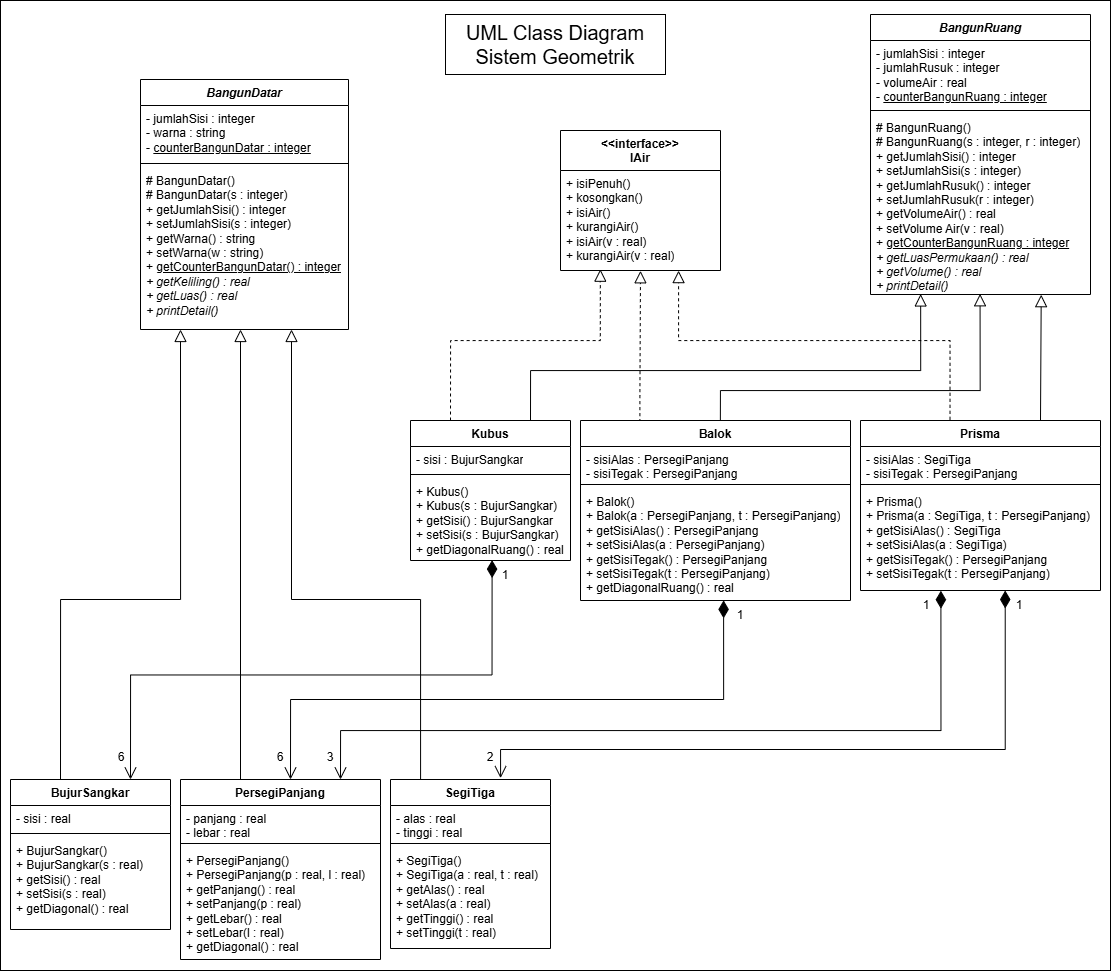
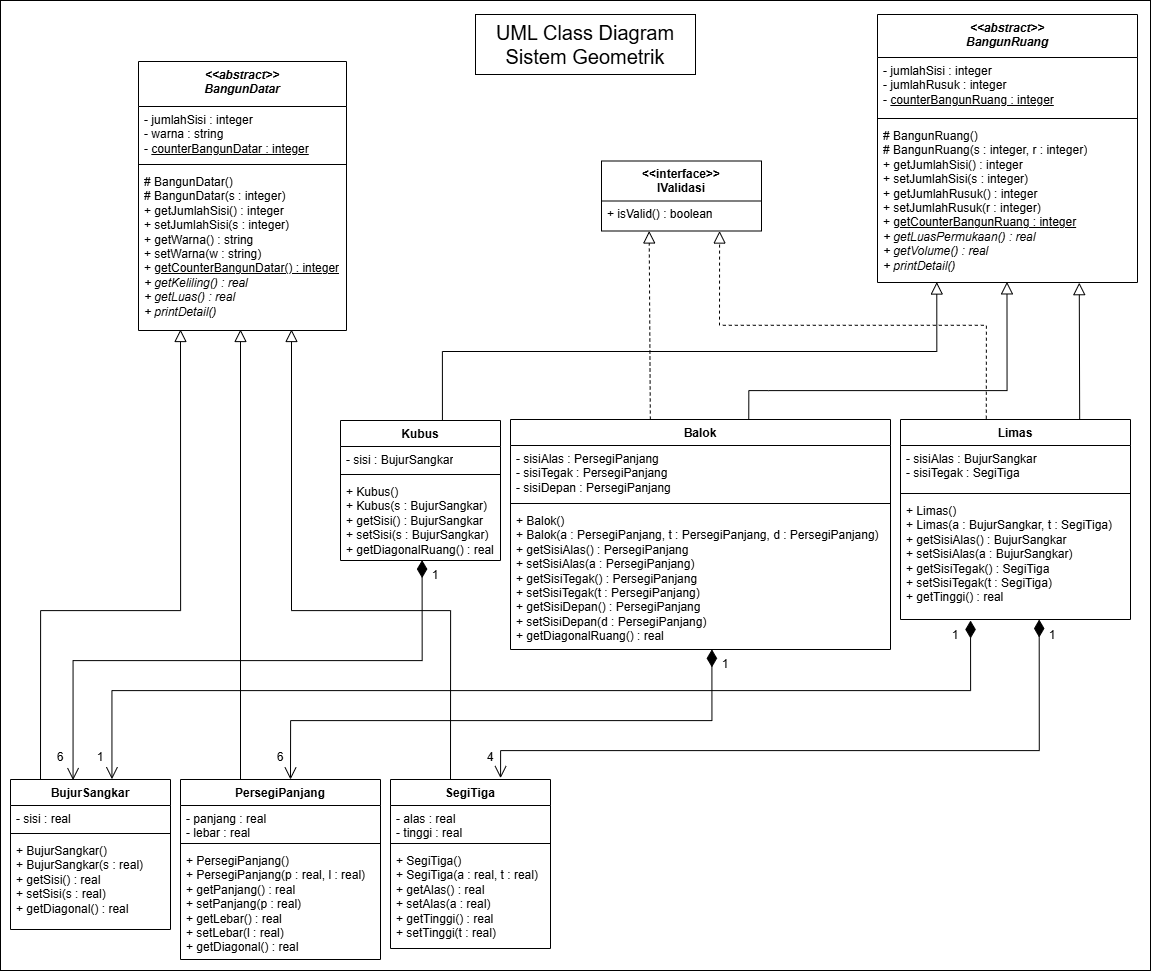
change img

diff --git a/src/Limas.java b/src/Limas.java
@@ -70,10 +70,10 @@ public class Limas extends BangunRuang implements IValidasi{
     @Override
     public void printDetail(){
         System.out.println("=== Print Detail Limas ===" );
-        System.out.println("Alas Limas        = " + sisiAlas.getSisi());
-        System.out.println("Tinggi Limas      = " + getTinggi());
-        System.out.println("Luas Permukaan    = " + getLuasPermukaan() );
-        System.out.println("Volume            = " + getVolume());
+        System.out.println("Alas Limas     = " + sisiAlas.getSisi());
+        System.out.println("Tinggi Limas   = " + getTinggi());
+        System.out.println("Luas Permukaan = " + getLuasPermukaan() );
+        System.out.println("Volume         = " + getVolume());
         System.out.println();
     }
 }

diff --git a/README.md b/README.md
@@ -2,32 +2,46 @@
 
 Anggota Kelompok :
 
-- Ruth Septriana Sipangkar (24060124120024)
+- Ruth Septriana Sipangkar   (24060124120024)
 - Sarifa Nuha Ardanti Jusmar (24060124130082)
-- Syafira Azka Ramadhani (24060124130088)
-- Yasmina Syahidah (24060124130116)
+- Syafira Azka Ramadhani     (24060124130088)
+- Yasmina Syahidah           (24060124130116)
 
 Informatika 2024 Kelas C
 
 ## Bussines Process
+Sebuah Sistem Geometrik terdiri dari dua class utama, yaitu BangunDatar dan BangunRuang, dengan rincian sebagai berikut.
+BangunDatar adalah abstract class yang memiliki atribut jumlahSisi dan warna, serta atribut statis counterBangunDatar. BangunDatar memiliki abstract method getKeliling() untuk menghitung keliling, getLuas() menghitung luas, dan printDetail() untuk menampilkan detail.
+BangunDatar membentuk tiga subclass: 
+BujurSangkar, yang memiliki ukuran sisi dalam cm dan method getDiagonal() untuk menghitung diagonal; 
+PersegiPanjang, yang memiliki panjang dan lebar dalam cm;
+SegiTiga, yang memiliki alas dan tinggi dalam cm.
+BangunRuang adalah abstract class yang memiliki atribut jumlahSisi dan jumlahRusuk serta atribut statis counterBangunRuang. BangunRuang memiliki abstract method getLuasPermukaan() untuk menghitung luas permukaan, getVolume() untuk menghitung volume, dan printDetail() untuk menampilkan detail.
+BangunRuang membentuk tiga subclass:
+Kubus, yang tersusun dari sisi berbentuk BujurSangkar dan memiliki method getDiagonalRuang() untuk menghitung diagonal ruang; 
+Balok, yang tersusun dari sisiAlas, sisiTegak, dan sisiDepan berbentuk PersegiPanjang dan memiliki method getDiagonalRuang() untuk menghitung diagonal ruang;
+Limas, yang tersusun dari sisiAlas berbentuk BujurSangkar dan sisiTegak berbentuk Segitiga dan memiliki method getTinggi() untuk menghitung tinggi limas.
+Selain itu, terdapat Interface IValidasi berisi method isValid() yang diimplementasikan oleh class Balok dan Limas untuk memvalidasi ukuran bangun. Method ini dipanggil di dalam konstruktor untuk memeriksa parameter dan memastikan bahwa nilai-nilai ukuran, seperti sisiAlas, sisiDepan, sisiTegak memenuhi syarat valid. Apabila hasil validasi bernilai false, maka konstruktor akan melempar exception (misalnya IllegalArgumentException) sebagai bentuk penanganan kesalahan input.
+Dengan struktur ini, seluruh sistem geometrik tersusun secara terorganisir, di mana setiap jenis bangun datar maupun bangun ruang memiliki karakteristik dan perilaku yang konsisten dengan sifat geometrisnya.
+
 
 Sebuah **Sistem Geometrik** terdiri dari dua class utama, yaitu BangunDatar dan BangunRuang, dengan rincian sebagai berikut.
 
-**BangunDatar** adalah abstract class yang memiliki atribut jumlahSisi dan warna, serta atribut statis counterBangunDatar. BangunDatar memiliki abstract method untuk menghitung keliling, menghitung luas, dan menampilkan detail.
+**BangunDatar** adalah abstract class yang memiliki atribut jumlahSisi dan warna, serta atribut statis counterBangunDatar.BangunDatar memiliki abstract method getKeliling() untuk menghitung keliling, getLuas() menghitung luas, dan printDetail() untuk menampilkan detail.
 
 BangunDatar membentuk tiga subclass: 
-- BujurSangkar, yang memiliki ukuran sisi dalam cm dan method untuk menghitung diagonal;
+- BujurSangkar, yang memiliki ukuran sisi dalam cm dan method getDiagonal() untuk menghitung diagonal; 
 - PersegiPanjang, yang memiliki panjang dan lebar dalam cm;
 - SegiTiga, yang memiliki alas dan tinggi dalam cm.
 
-**BangunRuang** adalah abstract class yang memiliki atribut jumlahSisi, jumlahRusuk, dan volumeAir, serta atribut statis counterBangunRuang. BangunRuang memiliki abstract method untuk menghitung luas permukaan, menghitung volume, dan menampilkan detail.
+**BangunRuang** adalah abstract class yang memiliki atribut jumlahSisi, jumlahRusuk, serta atribut statis counterBangunRuang. BangunRuang memiliki abstract method getLuasPermukaan() untuk menghitung luas permukaan, getVolume() untuk menghitung volume, dan printDetail() untuk menampilkan detail.
 
 BangunRuang membentuk tiga subclass:
-- Kubus, yang tersusun dari sisi berbentuk BujurSangkar dan memiliki method untuk menghitung diagonal ruang; 
-- Balok, yang tersusun dari sisiAlas dan sisiTegak berbentuk PersegiPanjang dan memiliki method untuk menghitung diagonal ruang;
-- Prisma, dengan sisiAlas berbentuk SegiTiga dan sisiTegak berbentuk PersegiPanjang.
+- Kubus, yang tersusun dari sisi berbentuk BujurSangkar dan memiliki method getDiagonalRuang() untuk menghitung diagonal ruang; 
+- Balok, yang tersusun dari sisiAlas, sisiTegak, dan sisiDepan berbentuk PersegiPanjang dan memiliki method getDiagonalRuang() untuk menghitung diagonal ruang;
+- Limas, yang tersusun dari sisiAlas berbentuk BujurSangkar dan sisiTegak berbentuk Segitiga dan memiliki method getTinggi() untuk menghitung tinggi limas.
 
-Selain itu, terdapat interface kepada BangunRuang yang berfungsi menampung air di dalamnya, dengan method isiPenuh, kosongkan, serta isiAir dan kurangiAir yang dengan dan tanpa parameter (default 10mL).
+Selain itu, terdapat Interface IValidasi berisi method isValid() yang diimplementasikan oleh class Balok dan Limas untuk memvalidasi ukuran bangun. Method ini dipanggil di dalam konstruktor untuk memeriksa parameter dan memastikan bahwa nilai-nilai ukuran, seperti sisiAlas, sisiDepan, sisiTegak memenuhi syarat valid. Apabila hasil validasi bernilai false, maka konstruktor akan melempar exception (misalnya IllegalArgumentException) sebagai bentuk penanganan kesalahan input.
 
 Dengan struktur ini, seluruh sistem geometrik tersusun secara terorganisir, di mana setiap jenis bangun datar maupun bangun ruang memiliki karakteristik dan perilaku yang konsisten dengan sifat geometrisnya.
 
